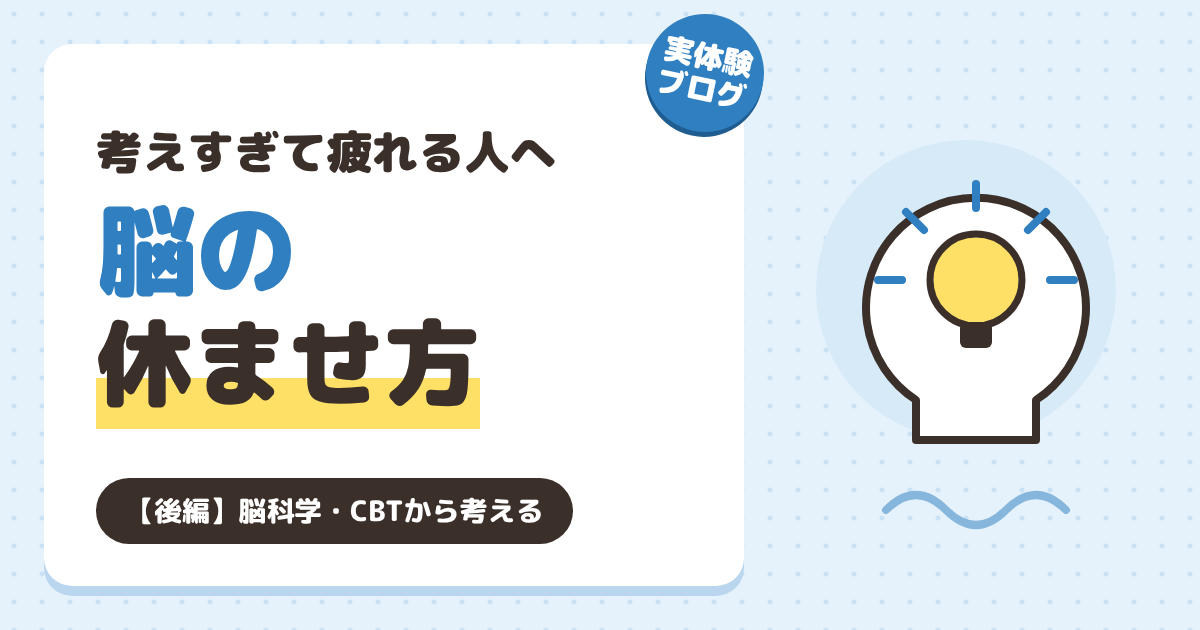
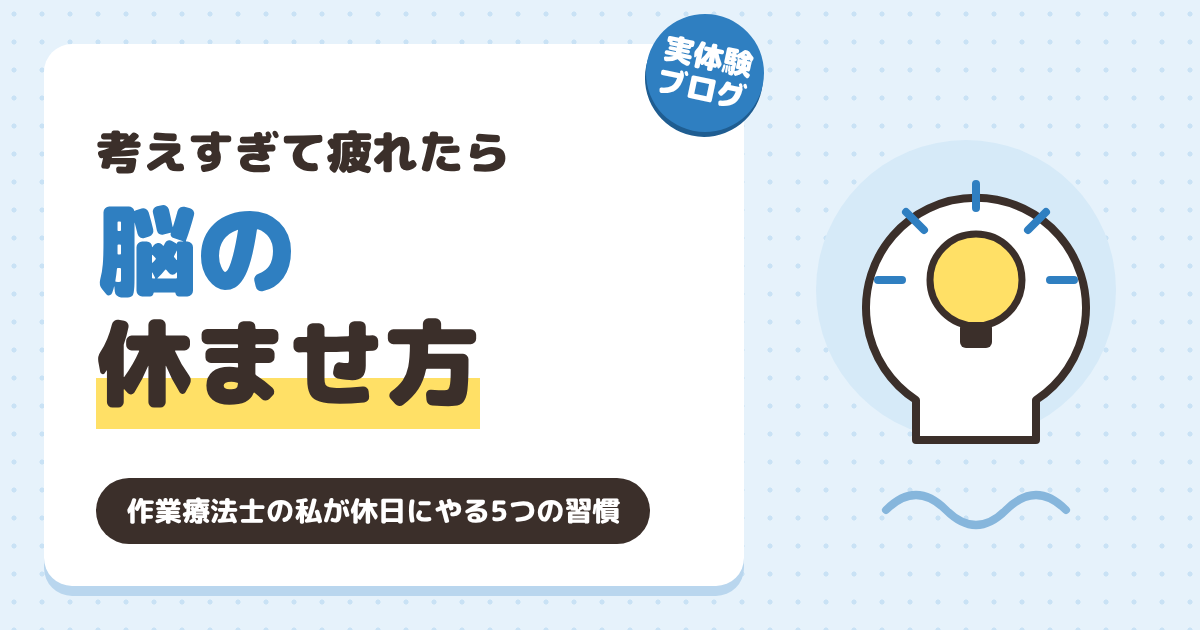
投稿190（脳を休ませる習慣）の改稿案・図解・アイキャッチを追加（未反映）
Claude-Session: https://claude.ai/code/session_01AbwgezYxuzkhNMxoZh4PnK

Changed region(s): [[0.0925, 0.754, 0.555, 0.8746], [0.3392, 0.2111, 0.4625, 0.2714]]

diff --git a/ブログジャンル選定/記事_脳を休ませる習慣.md b/ブログジャンル選定/記事_脳を休ませる習慣.md
@@ -1,0 +1,111 @@
+# 考えすぎて疲れたときの脳の休ませ方5選｜作業療法士の私が休日に実践している習慣
+
+休みの日なのに、頭の中がずっとうるさい。
+
+ぼーっとしようとしても、過去の失敗や人間関係のことが勝手に浮かんでくる。気づけば、体は休んでいるのに、頭だけがぐったり疲れている。
+
+私も、ずっとそうでした。考えすぎてしまう自分を責めて、「考えないようにしよう」と頑張っては、余計に考えてしまう。その繰り返しでした。
+
+この記事では、作業療法士として学んだことと、自分自身の体験をもとに、考えすぎて疲れたときに私が実践している「脳を休ませる習慣」を5つ紹介します。
+
+@おさる(困った): 休みの日ほど、頭の中がうるさくなるんですよね…。
+
+<div class="tab-caption-box"><div class="tab-caption-box-label">この記事でわかること</div><div class="tab-caption-box-content"><ul><li>「考えないようにする」が逆効果になりやすい理由</li><li>考えすぎて疲れたときに、脳を休ませる5つの習慣</li><li>作業療法士の私が休日にやっている「脳を休ませる一日」</li></ul></div></div>
+
+## 大切なのは「考えない」ことではなく「休みやすい環境を作る」こと
+
+脳は、何も考えていないつもりのときでも働いています。そして「考えないようにしよう」と思うほど、かえってそのことを考えてしまう。これは心理学でも知られている現象です。
+
+だから私は、「考えないように頑張る」のをやめました。代わりに、**脳が自然と休みやすい環境を作る**ことを意識しています。
+
+なぜ休日に頭がうるさくなるのか、その仕組みについては、こちらの記事で詳しく書いています。
+
+https://health-reset-note.com/%e8%80%83%e3%81%88%e3%81%99%e3%81%8e%e3%81%a6%e7%96%b2%e3%82%8c%e3%82%8b%e4%ba%ba%e3%81%b8%ef%bd%9c%e3%81%bc%e3%83%bc%e3%81%a3%e3%81%a8%e3%81%a7%e3%81%8d%e3%81%aa%e3%81%84%e7%90%86%e7%94%b1%e3%81%a8/
+
+<img src="https://health-reset-note.com/wp-content/uploads/2026/11/diagram_190_habits.png" alt="脳を休ませる習慣：外に出て緑を見る、お風呂と読書で切り替える、情報を減らして考えすぎに気づく。考えないより、休める時間を増やす" width="1200" height="675" class="aligncenter">
+
+## 考えすぎて疲れたときの、脳を休ませる習慣5選
+
+### 1. 外に出て、緑を見ながら散歩する
+私が一番続けているのが、散歩です。
+
+朝や夕方に10〜15分ほど歩くことが多く、天気の良い日は近くの川沿いを歩きます。鳥の鳴き声を聞いたり、春には桜並木を眺めたり。この時間は、不思議と頭の中の雑音が少し静かになります。
+
+最近とくに感じているのは、**家の中にいるより、外に出て緑を見るほうが、脳が休まる**ということです。
+
+軽い有酸素運動はストレス反応を和らげることが報告されていて、自然の中で過ごすことは、注意力の回復や精神的な疲れの軽減につながる可能性があると考えられています。
+
+ポイントは、「考えないように歩く」のではなく、景色や鳥の声に意識を向けること。そうすると、自然と頭が落ち着いてきます。
+
+@おさる(笑顔): 家にこもるより、外に出て緑を見るほうが頭が休まる気がします。
+
+### 2. お風呂は、脳に「休んでもいい」と伝える時間
+以前は、シャワーだけで済ませることもありました。今は、お湯をためて肩までゆっくり浸かるようにしています。
+
+湯船に浸かっている間は、「何かしなければ」という気持ちが少し薄れていきます。入浴は体をリラックスしやすい状態にして、睡眠にも良い影響を与える可能性があるとされています。
+
+毎日は難しくても、週に数回ゆっくり湯船に浸かるだけで、気持ちの切り替えになると感じています。
+
+### 3. 読書で「自分の考え」から離れる
+私は小説を読むのが好きです。心理学の本や新書も読みますが、小説を読んでいると、自分の悩みから少し距離を置ける感覚があります。
+
+考えすぎ（反すう）は、自分自身に意識が向き続けることで強くなることがあります。本の世界に入り込むと、注意の向き先が自然と変わります。
+
+読書は、「考えない努力」ではなく、==自然と考える対象が変わる時間==なのだと思っています。
+
+### 4. スマホの情報を少し減らす
+休日にYouTubeを30分だけ見るつもりが、気づけば2〜3時間たっていた。そんなことが何度もありました。見ている間は気が紛れても、見終わるとまた考え始めてしまうんです。
+
+今は、スマホでYouTubeの利用時間を制限しています。完璧ではありませんが、「見すぎているな」と気づくきっかけになります。
+
+以前付き合っていた人の家では、テレビをほとんどつけず、子どもと遊ぶ時間が中心でした。その時間はスマホもあまり見ず、頭の中が静かだったのを覚えています。
+
+デジタルデトックスは、スマホをゼロにすることではありません。**情報が入ってこない時間を少し作る**ことから始めれば十分です。
+
+### 5. 「考えすぎている」と気づく
+認知行動療法（CBT）を学んで一番印象に残ったのは、「自動思考」という考え方でした。
+
+過去の失敗や人間関係が頭に浮かぶこと自体は、すぐには止められません。でも、
+
+「また考えているな」
+「これは自動思考なんだな」
+
+と気づくことはできます。
+
+以前の私は、浮かんだ考えに飲み込まれていました。今は、少し距離を置いて眺められる時間が増えてきました。考えが浮かぶのは悪いことではありません。大切なのは、その考えに何時間も付き合い続けないことです。
+
+@おさる(普通): 考えが浮かんでも、「あ、また考えてるな」と気づければ十分なんです。
+
+考えすぎて仕事に集中できないときの工夫は、こちらの記事にまとめています。
+
+https://health-reset-note.com/%e4%bb%95%e4%ba%8b%e4%b8%ad%e3%81%ab%e7%a9%ba%e6%83%b3%e3%82%84%e5%8f%8d%e3%81%99%e3%81%86%e3%81%8c%e6%ad%a2%e3%81%be%e3%82%89%e3%81%aa%e3%81%84%e4%ba%ba%e3%81%b8%ef%bd%9cadhd%e5%82%be%e5%90%91/
+
+## 作業療法士の私が休日に実践している「脳を休ませる一日」
+
+休日に何も予定がないと、私は考えすぎてしまいます。だから、完璧でなくても、一日の流れをざっくり決めるようにしています。
+
+<div class="blank-box bb-orange"><p><strong>私の休日の流れ（例）</strong></p><ul><li>朝：10〜15分だけ散歩する</li><li>帰って朝食</li><li>午前：読書を1時間</li><li>昼：昼食を作る</li><li>午後：図書館やカフェに出かける</li><li>帰宅後：軽く掃除</li><li>夜：ゆっくりお風呂に浸かって、少し早めに寝る</li></ul></div>
+
+こうして書くと、特別なことは何もありません。でも、予定があるだけで、頭の中が過去ではなく「今やること」に向きやすくなります。
+
+==予定を立てることは、自分を縛るためではなく、脳を休ませるための工夫==。今の私は、そう考えています。
+
+## まとめ：「考えないこと」ではなく「休める時間」を少しずつ増やそう
+
+<div class="tab-caption-box"><div class="tab-caption-box-label">脳を休ませる5つの習慣</div><div class="tab-caption-box-content"><ul><li>外に出て、緑を見ながら散歩する</li><li>お風呂に浸かって、気持ちを切り替える</li><li>読書で、自分の考えから離れる</li><li>スマホの情報を、少し減らす</li><li>「考えすぎている」と気づく</li></ul></div></div>
+
+以前の私は、「考えすぎる自分はダメなんだ」と思っていました。でも今は、考えてしまうのは人として自然なことだと思えるようになりました。
+
+今でも、昔の失敗を思い出す日はあります。人間関係で悩むこともあります。それでも「また考えているな」と気づいて、外に出たり、本を開いたり、お風呂に浸かったりすることで、以前よりも頭を切り替えられる日が増えてきました。
+
+脳を休ませるとは、何も考えないことではありません。考え続けなくても大丈夫な時間を、少しずつ増やしていくこと。
+
+もし今、考えすぎて疲れているなら、自分を責める前に、「今日は10分だけ外を歩いてみようかな」と思うところから始めてみてください。
+
+## 参考文献
+
+- Berman et al. (2008)：自然環境と認知回復
+- Nolen-Hoeksema et al. (2008)：反すう思考のレビュー
+- Raichle et al. (2001)：デフォルト・モード・ネットワーク（DMN）の代表的な論文
+- Wegner (1987)：「白いクマ」の実験
+- Schuch et al. (2018)：運動と抑うつ予防のメタ解析
